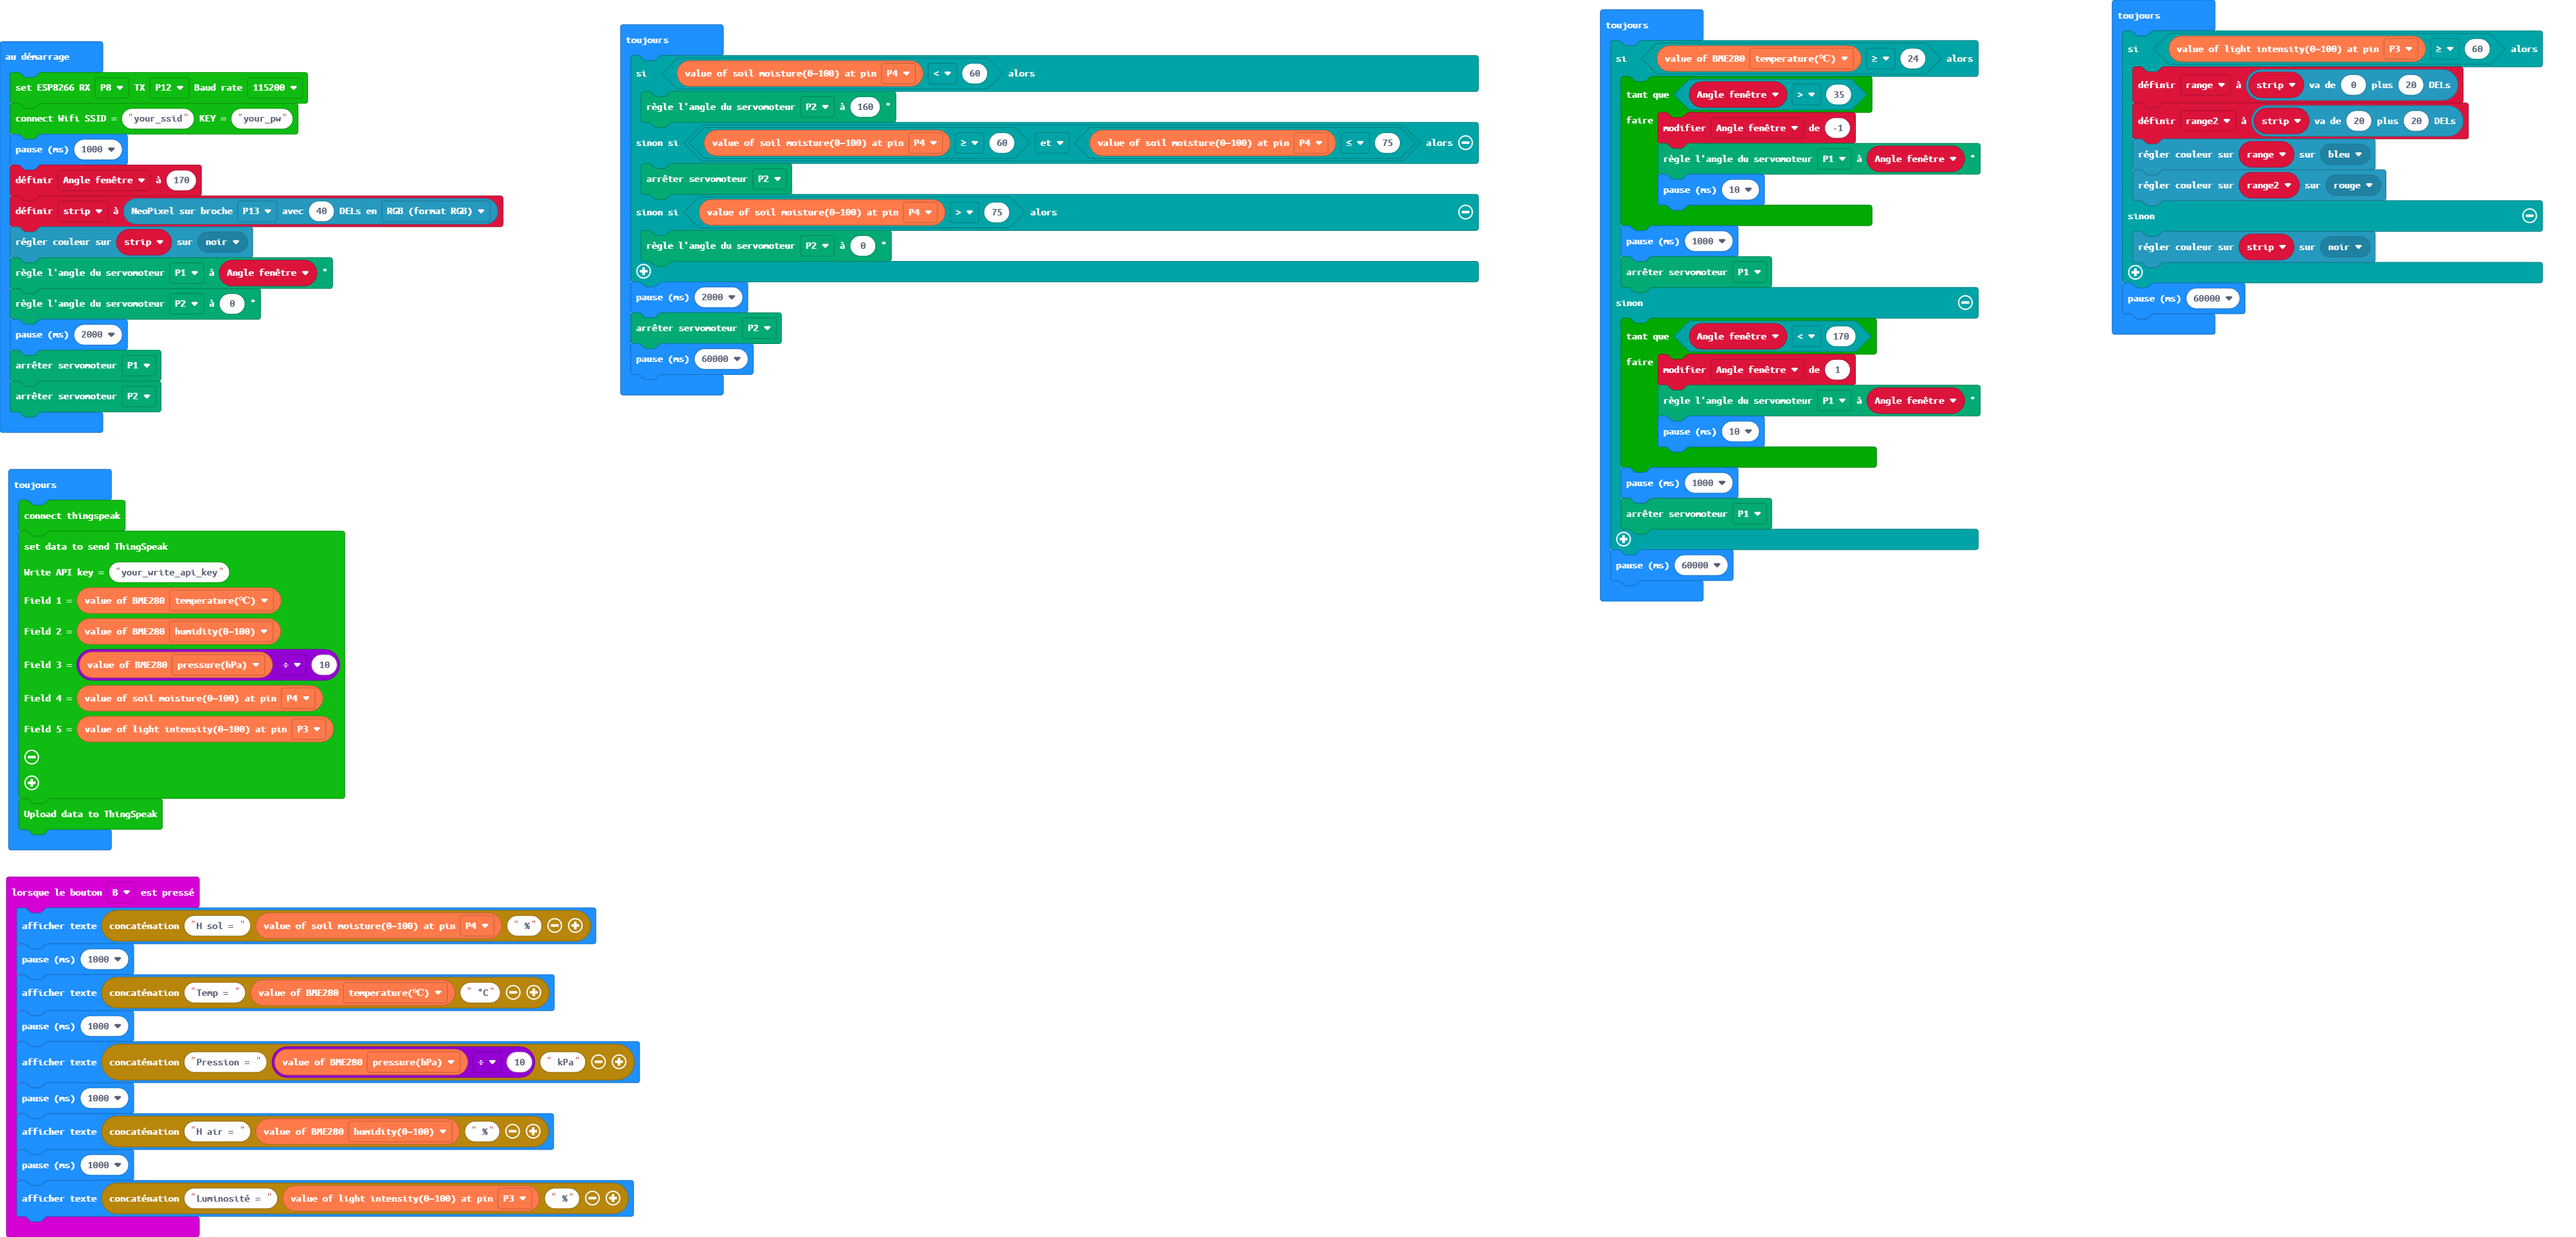
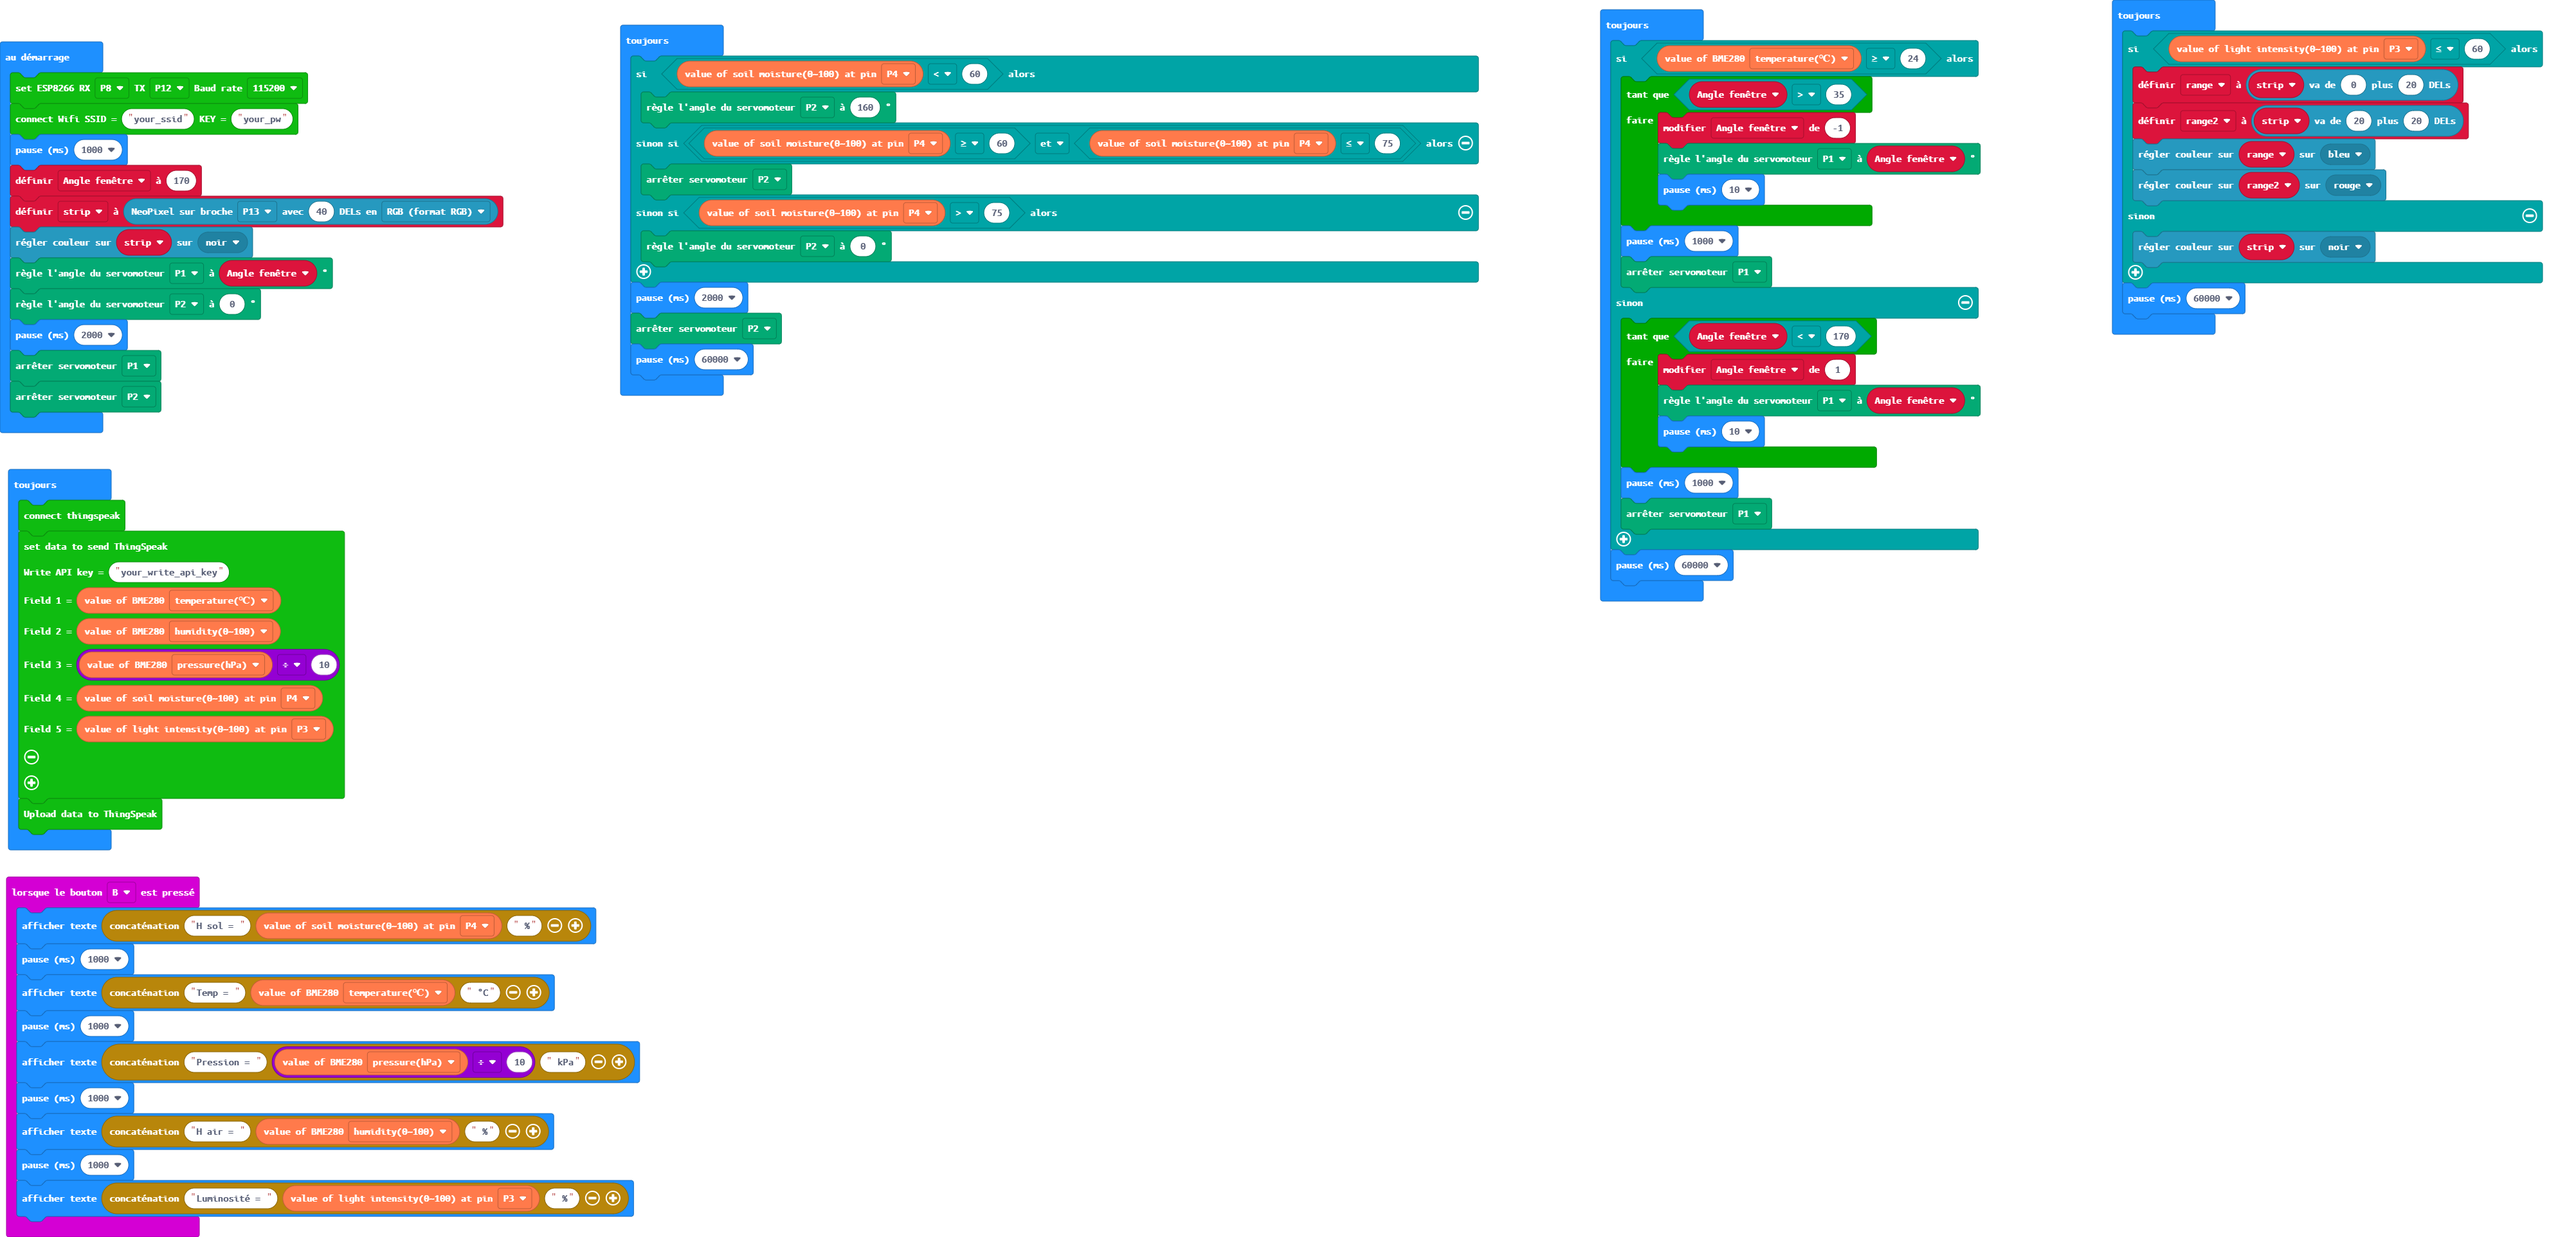
Mise à jour main.blocks, main.ts

diff --git a/main.ts b/main.ts
@@ -55,7 +55,7 @@ basic.forever(function () {
     basic.pause(60000)
 })
 basic.forever(function () {
-    if (Environment.ReadLightIntensity(AnalogPin.P3) >= 60) {
+    if (Environment.ReadLightIntensity(AnalogPin.P3) <= 60) {
         range = strip.range(0, 20)
         range2 = strip.range(20, 20)
         range.showColor(neopixel.colors(NeoPixelColors.Blue))
